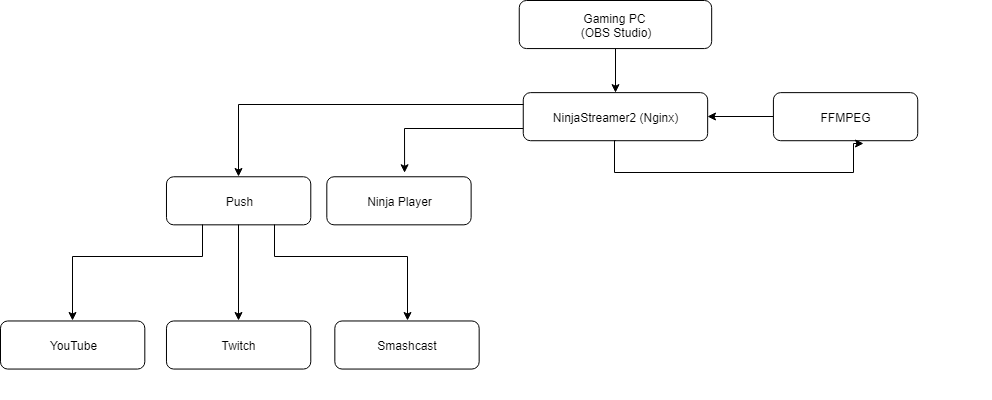
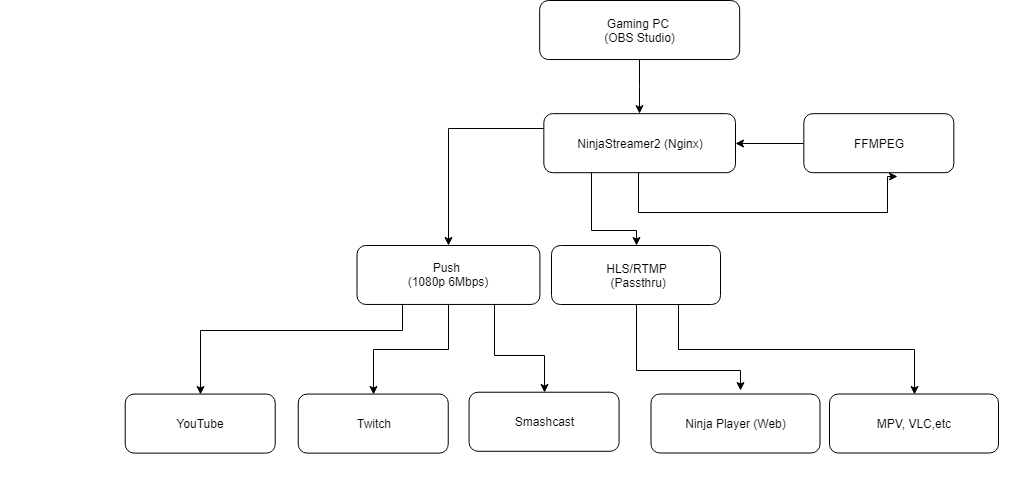
Add files via upload

diff --git a/html/index.html b/html/index.html
@@ -2,32 +2,35 @@
 <html>
 <head>
 <meta charset=utf-8 />
-<title>Nwgat NinjaStreamer HLS Player</title>
-  <link href="https://unpkg.com/video.js@5.16.0/dist/video-js.css" rel="stylesheet">
-  <script src="https://unpkg.com/video.js@5.16.0/dist/video.js"></script>
-  <script src="https://unpkg.com/videojs-contrib-hls@4.1.1/dist/videojs-contrib-hls.js"></script>
-  <link href="https://unpkg.com/video.js/dist/video-js.css" rel="stylesheet">
-  <script src="https://unpkg.com/video.js/dist/video.js"></script>
-  <script src="https://unpkg.com/videojs-contrib-hls/dist/videojs-contrib-hls.js"></script>
-
+<title>Nwgat Ninja Player</title>
+  <link href="https://cdnjs.cloudflare.com/ajax/libs/video.js/6.8.0/alt/video-js-cdn.min.css" rel="stylesheet">
+  <script src="https://cdnjs.cloudflare.com/ajax/libs/video.js/6.8.0/video.min.js"></script>
+  <script src="https://cdnjs.cloudflare.com/ajax/libs/videojs-contrib-hls/5.14.1/videojs-contrib-hls.min.js"></script>
 </head>
 <body>
 <center><h1>Nwgat Ninja Player</h1>
-<video id=example-video width=1280 height=720 class="video-js vjs-default-skin" controls preload autoplay>
+<video id=example-video  height=540 class="video-js vjs-default-skin" controls preload autoplay>
   <source
      src="hls/live.m3u8"
      type="application/x-mpegURL">
 </video>
-<script src="video.js"></script>
-<script src="videojs-contrib-hls.min.js"></script>
 <script>
 var player = videojs('example-video');
 player.play();
 </script>
-<h2><img src="http://195.201.54.2/10994-A_AMD_RYZEN_RADEON_LOCKUP_K_WEB.png" alt="" width="442" height="56" />&nbsp; &nbsp;<img style="font-size: 14px;" src="http://195.201.54.2/1730404_AMD_EPYC_LOCKUP_K.png" alt="" width="182" height="69" /></h2>
+<h2><img src="10994-A_AMD_RYZEN_RADEON_LOCKUP_K_WEB.png" alt="" width="442" height="56" />&nbsp; &nbsp;<img style="font-size: 14px;" src="http://195.201.54.2/1730404_AMD_EPYC_LOCKUP_K.png" alt="" width="182" height="69" /></h2>
 <h2>Encoded on Radeon, Powered by Ryzen, Served by EPYC</h2>
 <p>Ryzen 1700X, 16GB DDR4 2x2933, RX 480 Gaming X, 960 EVO 500GB NVMe <br />EPYC 7401P VM (1-Core, 2GB RAM, 10GB NVMe)</p>
-<p><img style="display: block; margin-left: auto; margin-right: auto;" src="http://195.201.54.2/ninjastreamer2.png" alt="" width="" height="" /></p>
+<p><strong>View Stream</strong></p>
+<p>Ninja Player: http://$ip (Passthru)</p>
+<p>HLS <a href="http://$ip/hls/live.m3u8">1080p</a> <a href="http://$ip/hls_push/live.m3u8">720p</a> RTMP <a href="rtmp://$ip:1935/out/live">1080p</a> <a href="rtmp://$ip:1935/push/live">720p</a></p>
+<p>&nbsp;</p>
+<p><strong>Input: (OBS, ffmpeg etc)</strong></p>
+<p>rtmp://$ip:1935/in/live?key=password</p>
+<p><strong>Input Push</strong>(if you use another machine to encode 720p than the nginx one)</p>
+<p>rtmp://$ip:1935/push/live?key=password</p>
+<p>ffmpeg -i rtmp://$ip:1935/in/live -map 0 -threads 16 -c:v libx264 -preset medium -level 4.1 -vf scale=1280:-1 -b:v 5M -maxrate 6M -minrate 6M -bufsize 6M -g 120 -c:a aac -b:a 160k -flags +global_header -ac 1 -f flv rtmp://$ip:1935/push/live?key=password</p>
+<p><img style="display: block; margin-left: auto; margin-right: auto;" src="ninjastreamer2.png" alt="" width="" height="" /></p>
   <script>
     const player = videojs('live');
     player.src({
@@ -36,5 +39,6 @@ player.play();
     });
   </script>
 </center>
+
 </body>
 </html>
